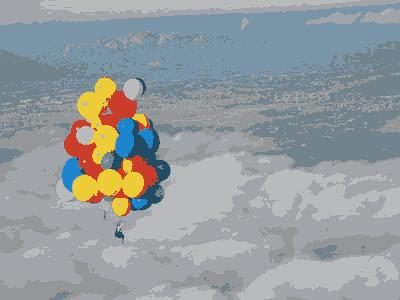
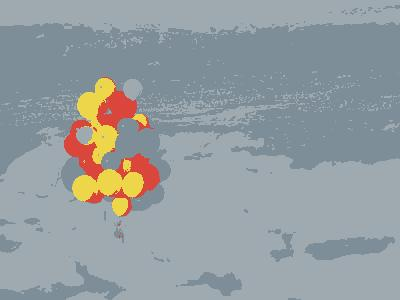
Added sample images to README

diff --git a/README.md b/README.md
@@ -1,6 +1,9 @@
 Image posterizer using Self Organizing Maps
 ===========================================
 
+Applies a posterizing / segmentation effect to an image with the specified
+number of colors
+
 Usage:
 ------
 
@@ -15,3 +18,14 @@ Also, a nice plot could be activated in `posterize.py`, add `do_plot=True` to
 the arguments of the `posterize()` function calling (in main)
 
 TODO: add a command line flag for plot enabling
+
+Sample:
+-------
+
+Original image:
+
+![Original](https://raw.github.com/iuliux/SOM_Posterizer/master/imgs/3.jpg)
+
+Posterized image (4 colors):
+
+![Posterized](https://raw.github.com/iuliux/SOM_Posterizer/master/imgs/3_sgm.jpg)
